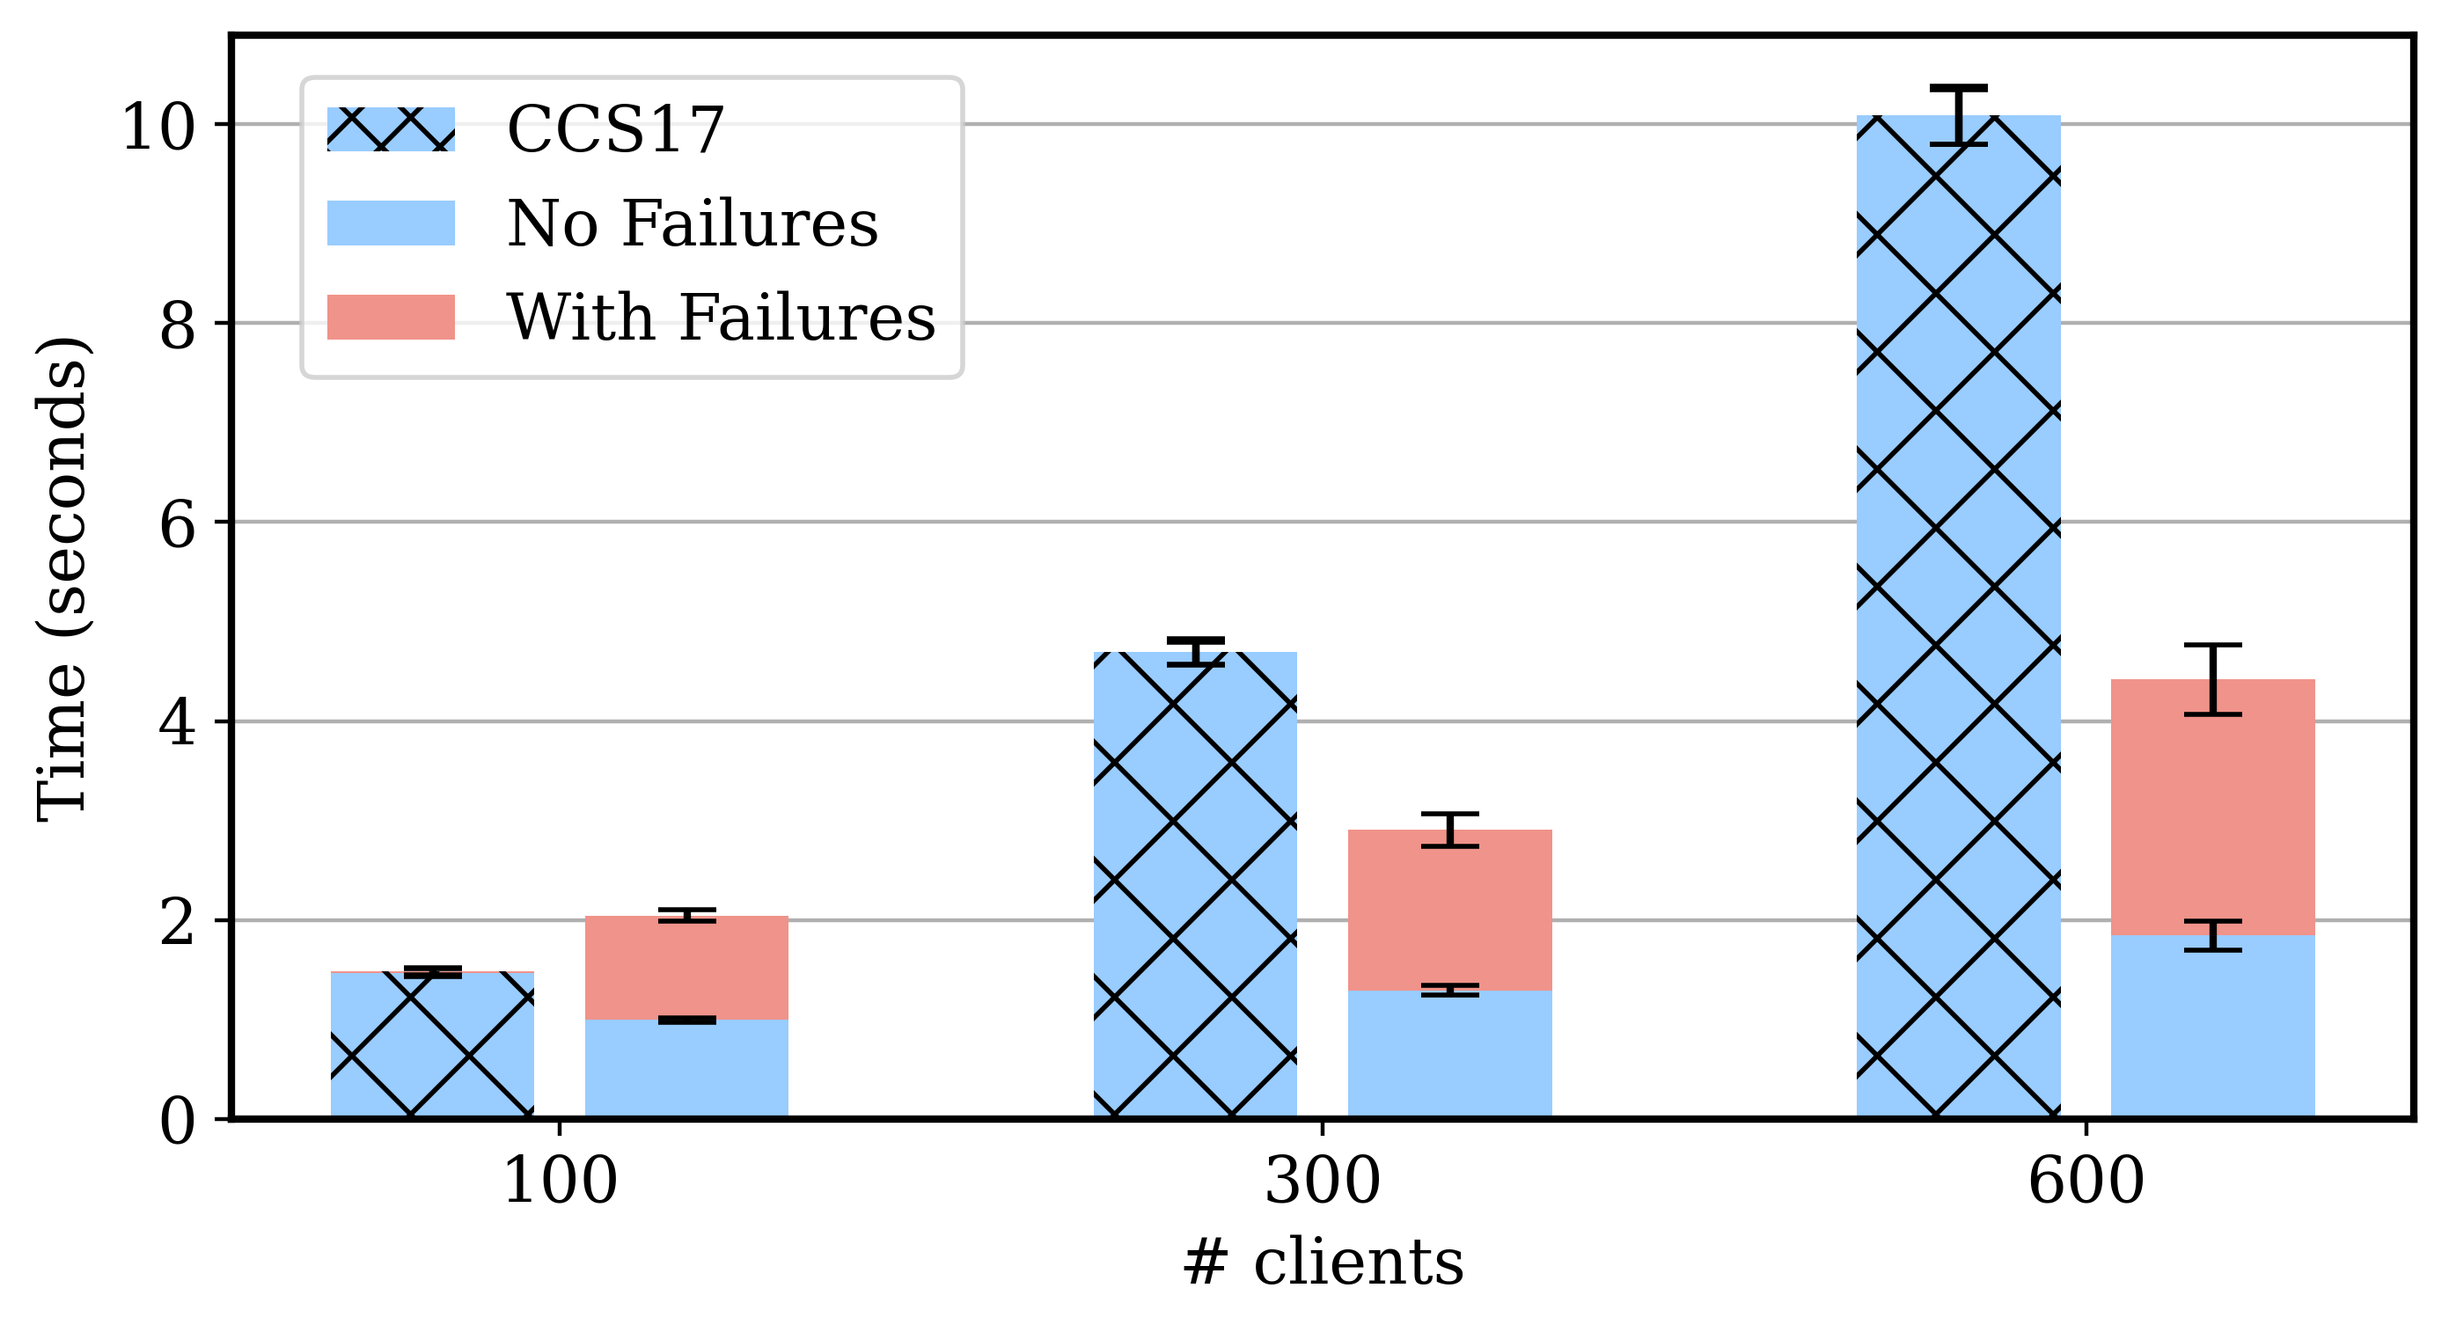
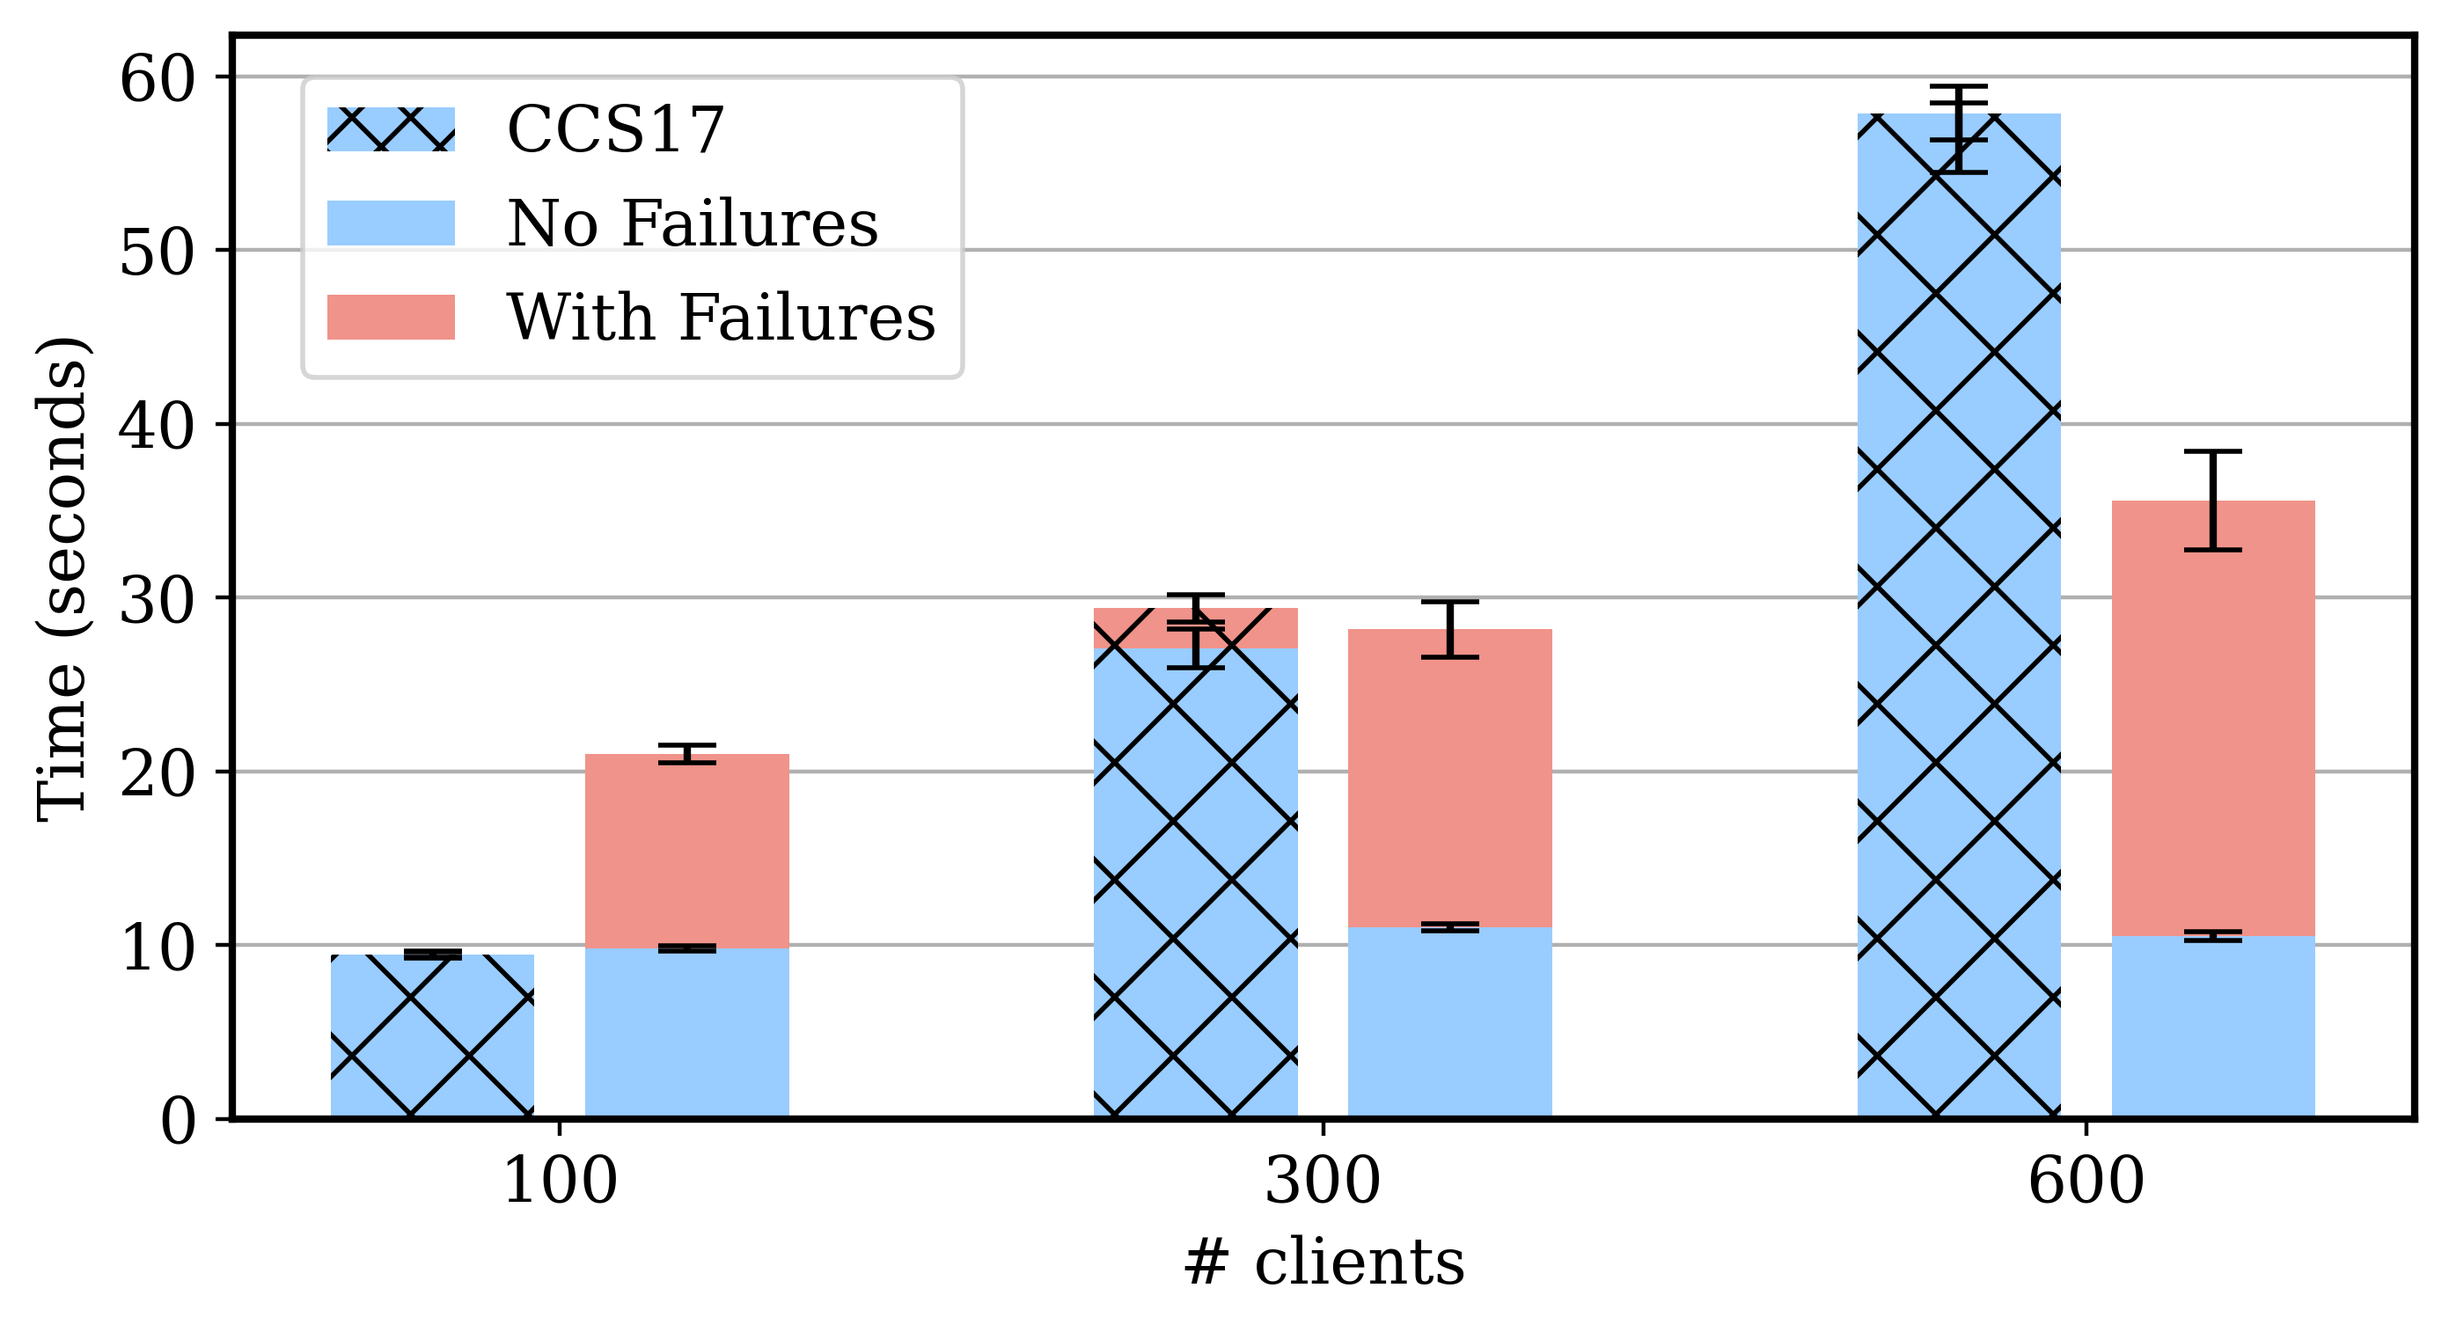
Documentation of benchmarks

diff --git a/ftsa/benchmarks/visualize_benchmarks.py b/ftsa/benchmarks/visualize_benchmarks.py
@@ -165,7 +165,7 @@ def plot_time_client(ccs, online):
     fig.set_figheight(4)
     fig.set_figwidth(8)
     # ax = axes[0]
-    ax.set_ylabel('Time (seconds)')
+    ax.set_ylabel('seconds')
     ax.set_xlabel('# clients')
     ax.yaxis.grid(True)
     ax.set_axisbelow(True)
@@ -181,6 +181,9 @@ def plot_time_client(ccs, online):
             means = np.array([ccs_mean[10000][drop][ncli], online_mean[10000][drop][ncli]])
             error = np.array([ccs_std[10000][drop][ncli], online_std[10000][drop][ncli]])
             ax.bar(x_pos, means, yerr=error, align='center', alpha=1, ecolor='black', color =clrs[j], hatch=htch,capsize=6, width=wdth)
+            # print(ncli, drop, means[0]/means[1])
+
+
         i+=1
 
 
@@ -207,7 +210,7 @@ def plot_time_client(ccs, online):
     dimsnames = ['1K', '10K', '100K']
     ncli = 600 
 
-    ax.set_ylabel('Time (seconds)')
+    ax.set_ylabel('seconds')
     ax.set_xlabel('Dimension')
     ax.yaxis.grid(True)
     ax.set_axisbelow(True)
@@ -401,7 +404,7 @@ def plot_time_server(ccs, online):
     fig.set_figheight(4)
     fig.set_figwidth(8)
     # ax.set_ylim(0,400)
-    ax.set_ylabel('Time (seconds)')
+    ax.set_ylabel('seconds')
     ax.set_xlabel('# clients')
     ax.yaxis.grid(True)
     ax.set_axisbelow(True)
@@ -417,6 +420,8 @@ def plot_time_server(ccs, online):
             means = np.array([ccs_mean[10000][drop][ncli], online_mean[10000][drop][ncli]])
             error = np.array([ccs_std[10000][drop][ncli], online_std[10000][drop][ncli]])
             ax.bar(x_pos, means, yerr=error, align='center', alpha=1, ecolor='black', color =clrs[j], hatch=htch,capsize=6, width=wdth)
+            # print(ncli, drop, means[0]/means[1])
+
             j+=1
         i+=1
 
@@ -445,7 +450,7 @@ def plot_time_server(ccs, online):
     dimsnames = ['1K', '10K', '100K']
     ncli = 600 
 
-    ax.set_ylabel('Time (seconds)')
+    ax.set_ylabel('seconds')
     ax.set_xlabel('Dimension')
     ax.yaxis.grid(True)
     ax.set_axisbelow(True)
@@ -502,34 +507,88 @@ def get_time_ms(setup, online, entity):
 
         online_mean[s.dimension][s.dropout][s.nclients] =( 1000* np.mean(online[s]['encrypt']) , 1000* np.mean(online[s]['construct']))
 
+    print(entity + " runtime measurements:")
+    print("-------------------------")
+    print("100 clients, 1K dim:")
+    print("00% failures :  Setup = ",setup_mean[1000][0.0][100])
+    print("00% failures :  Online = ",online_mean[1000][0.0][100])
+    print("10% failures :  Setup = ",setup_mean[1000][0.1][100])
+    print("10% failures :  Online = ",online_mean[1000][0.1][100])
+    print("30% failures :  Setup = ",setup_mean[1000][0.3][100])
+    print("30% failures :  Online = ",online_mean[1000][0.3][100])
+    print() 
 
-    print(setup_mean[10000][0.1][600])
-    print(100*online_mean[10000][0.1][600] + setup_mean[10000][0.1][600])
-    print(500*online_mean[10000][0.1][600] + setup_mean[10000][0.1][600])
-    print(1000*online_mean[10000][0.1][600] + setup_mean[10000][0.1][600])
+    print("300 clients, 1K dim:")
+    print("00% failures :  Setup = ",setup_mean[1000][0.0][300])
+    print("00% failures :  Online = ",online_mean[1000][0.0][300])
+    print("10% failures :  Setup = ",setup_mean[1000][0.1][300])
+    print("10% failures :  Online = ",online_mean[1000][0.1][300])
+    print("30% failures :  Setup = ",setup_mean[1000][0.3][300])
+    print("30% failures :  Online = ",online_mean[1000][0.3][300])
+    print() 
 
-    print(setup_mean[10000][0.0][100])
-    print(online_mean[10000][0.0][100])
-    print(setup_mean[10000][0.1][100])
-    print(online_mean[10000][0.1][100])
-    print(setup_mean[10000][0.3][100])
-    print(online_mean[10000][0.3][100])
+    print("600 clients, 1K dim:")
+    print("00% failures :  Setup = ",setup_mean[1000][0.0][600])
+    print("00% failures :  Online = ",online_mean[1000][0.0][600])
+    print("10% failures :  Setup = ",setup_mean[1000][0.1][600])
+    print("10% failures :  Online = ",online_mean[1000][0.1][600])
+    print("30% failures :  Setup = ",setup_mean[1000][0.3][600])
+    print("30% failures :  Online = ",online_mean[1000][0.3][600])
+    print() 
 
+    print("100 clients, 10K dim:")
+    print("00% failures :  Setup = ",setup_mean[10000][0.0][100])
+    print("00% failures :  Online = ",online_mean[10000][0.0][100])
+    print("10% failures :  Setup = ",setup_mean[10000][0.1][100])
+    print("10% failures :  Online = ",online_mean[10000][0.1][100])
+    print("30% failures :  Setup = ",setup_mean[10000][0.3][100])
+    print("30% failures :  Online = ",online_mean[10000][0.3][100])
+    print() 
 
-    print(setup_mean[10000][0.0][300])
-    print(online_mean[10000][0.0][300])
-    print(setup_mean[10000][0.1][300])
-    print(online_mean[10000][0.1][300])
-    print(setup_mean[10000][0.3][300])
-    print(online_mean[10000][0.3][300])
+    print("300 clients, 10K dim:")
+    print("00% failures :  Setup = ",setup_mean[10000][0.0][300])
+    print("00% failures :  Online = ",online_mean[10000][0.0][300])
+    print("10% failures :  Setup = ",setup_mean[10000][0.1][300])
+    print("10% failures :  Online = ",online_mean[10000][0.1][300])
+    print("30% failures :  Setup = ",setup_mean[10000][0.3][300])
+    print("30% failures :  Online = ",online_mean[10000][0.3][300])
+    print() 
 
+    print("600 clients, 10K dim:")
+    print("00% failures :  Setup = ",setup_mean[10000][0.0][600])
+    print("00% failures :  Online = ",online_mean[10000][0.0][600])
+    print("10% failures :  Setup = ",setup_mean[10000][0.1][600])
+    print("10% failures :  Online = ",online_mean[10000][0.1][600])
+    print("30% failures :  Setup = ",setup_mean[10000][0.3][600])
+    print("30% failures :  Online = ",online_mean[10000][0.3][600])
 
-    print(setup_mean[10000][0.0][600])
-    print(online_mean[10000][0.0][600])
-    print(setup_mean[10000][0.1][600])
-    print(online_mean[10000][0.1][600])
-    print(setup_mean[10000][0.3][600])
-    print(online_mean[10000][0.3][600])
+    print("100 clients, 100K dim:")
+    print("00% failures :  Setup = ",setup_mean[100000][0.0][100])
+    print("00% failures :  Online = ",online_mean[100000][0.0][100])
+    print("10% failures :  Setup = ",setup_mean[100000][0.1][100])
+    print("10% failures :  Online = ",online_mean[100000][0.1][100])
+    print("30% failures :  Setup = ",setup_mean[100000][0.3][100])
+    print("30% failures :  Online = ",online_mean[100000][0.3][100])
+    print() 
+
+    print("300 clients, 100K dim:")
+    print("00% failures :  Setup = ",setup_mean[100000][0.0][300])
+    print("00% failures :  Online = ",online_mean[100000][0.0][300])
+    print("10% failures :  Setup = ",setup_mean[100000][0.1][300])
+    print("10% failures :  Online = ",online_mean[100000][0.1][300])
+    print("30% failures :  Setup = ",setup_mean[100000][0.3][300])
+    print("30% failures :  Online = ",online_mean[100000][0.3][300])
+    print() 
+
+    print("600 clients, 100K dim:")
+    print("00% failures :  Setup = ",setup_mean[100000][0.0][600])
+    print("00% failures :  Online = ",online_mean[100000][0.0][600])
+    print("10% failures :  Setup = ",setup_mean[100000][0.1][600])
+    print("10% failures :  Online = ",online_mean[100000][0.1][600])
+    print("30% failures :  Setup = ",setup_mean[100000][0.3][600])
+    print("30% failures :  Online = ",online_mean[100000][0.3][600])
+    print() 
+    print() 
 
 
 def get_comm(setup_sent,setup_rcvd, online_sent,online_rcvd):
@@ -551,22 +610,44 @@ def get_comm(setup_sent,setup_rcvd, online_sent,online_rcvd):
         online_sent_mean[s.dimension][s.dropout][s.nclients] = (np.mean(online_sent[s]['encrypt'])/8/1024, np.mean(online_sent[s]['construct'])/8/1024)
         online_rcvd_mean[s.dimension][s.dropout][s.nclients] = (0,np.mean(online_rcvd[s]['construct'])/8/1024)
 
-    for n in [100,300,600]:
-        for d in [0.0,0.3]:
-            sS = setup_sent_mean[10000][d][n]
-            oS = online_sent_mean[10000][d][n]
-            sR = setup_rcvd_mean[10000][d][n]
-            oR = online_rcvd_mean[10000][d][n]
-            print("nclients={}, drops={}".format(n,d))
-            print("{:.2f} KB & {:.2f} KB & {:.2f} KB & {:.2f} KB".format(sS[0],sS[1],oS[0],oS[1]))
-            print("{:.2f} KB & {:.2f} KB & {:.2f} KB & {:.2f} KB".format(sR[0],sR[1],oR[0],oR[1]))
-            print("{:.2f} KB & {:.2f} KB & {:.2f} KB & {:.2f} KB".format(sS[0]+sR[0],sS[1]+sR[1],oS[0]+oR[0],oS[1]+oR[1]))
+    print("Bandwidth measurements:")
+    print("-------------------------")
+    # for n in [100,300,600]:
+    #     for d in [0.0,0.3]:
+    #         print("nclients={}, drops={}".format(n,d))
+    #         print("{:.2f} KB & {:.2f} KB & {:.2f} KB & {:.2f} KB".format(sS[0],sS[1],oS[0],oS[1]))
+    #         print("{:.2f} KB & {:.2f} KB & {:.2f} KB & {:.2f} KB".format(sR[0],sR[1],oR[0],oR[1]))
+    #         print("{:.2f} KB & {:.2f} KB & {:.2f} KB & {:.2f} KB".format(sS[0]+sR[0],sS[1]+sR[1],oS[0]+oR[0],oS[1]+oR[1]))
+    #         print()
+
+#     for d in [0.0,0.3]:
+    for dim in [1000,10000,100000]:
+        for n in [100,300,600]:
+            print("{} clients, {}K dim, 00% fail:".format(n,int(dim/1000)))
+            sS = setup_sent_mean[dim][0.0][n]
+            oS = online_sent_mean[dim][0.0][n]
+            sR = setup_rcvd_mean[dim][0.0][n]
+            oR = online_rcvd_mean[dim][0.0][n]
+            print("00% failures : Sent = {:.2f} KB & {:.2f} KB & {:.2f} KB & {:.2f} KB".format(sS[0],sS[1],oS[0],oS[1]))
+            print("00% failures : Rcvd = {:.2f} KB & {:.2f} KB & {:.2f} KB & {:.2f} KB".format(sR[0],sR[1],oR[0],oR[1]))
+            print("00% failures : Totl = {:.2f} KB & {:.2f} KB & {:.2f} KB & {:.2f} KB".format(sS[0]+sR[0],sS[1]+sR[1],oS[0]+oR[0],oS[1]+oR[1]))
+            sS = setup_sent_mean[dim][0.1][n]
+            oS = online_sent_mean[dim][0.1][n]
+            sR = setup_rcvd_mean[dim][0.1][n]
+            oR = online_rcvd_mean[dim][0.1][n]
+            print("10% failures : Sent = {:.2f} KB & {:.2f} KB & {:.2f} KB & {:.2f} KB".format(sS[0],sS[1],oS[0],oS[1]))
+            print("10% failures : Rcvd = {:.2f} KB & {:.2f} KB & {:.2f} KB & {:.2f} KB".format(sR[0],sR[1],oR[0],oR[1]))
+            print("10% failures : Totl = {:.2f} KB & {:.2f} KB & {:.2f} KB & {:.2f} KB".format(sS[0]+sR[0],sS[1]+sR[1],oS[0]+oR[0],oS[1]+oR[1]))
             print()
 
-
-
-
-
+            sS = setup_sent_mean[dim][0.0][n]
+            oS = online_sent_mean[dim][0.0][n]
+            sR = setup_rcvd_mean[dim][0.0][n]
+            oR = online_rcvd_mean[dim][0.0][n]
+            print("30% failures : Sent = {:.2f} KB & {:.2f} KB & {:.2f} KB & {:.2f} KB".format(sS[0],sS[1],oS[0],oS[1]))
+            print("30% failures : Rcvd = {:.2f} KB & {:.2f} KB & {:.2f} KB & {:.2f} KB".format(sR[0],sR[1],oR[0],oR[1]))
+            print("30% failures : Totl = {:.2f} KB & {:.2f} KB & {:.2f} KB & {:.2f} KB".format(sS[0]+sR[0],sS[1]+sR[1],oS[0]+oR[0],oS[1]+oR[1]))
+            print()
 
 
 
@@ -585,7 +666,7 @@ if __name__ == "__main__":
     plot_time_server(ccs_server_time, server_online_time)
 
 
-    # get_time_ms(server_setup_time, server_online_time, "server")
-    # get_time_ms(client_setup_time, client_online_time, "client")
-    # get_comm(sent_setup_comm, rcvd_setup_comm, sent_online_comm,  rcvd_online_comm)
+    get_time_ms(server_setup_time, server_online_time, "server")
+    get_time_ms(client_setup_time, client_online_time, "client")
+    get_comm(sent_setup_comm, rcvd_setup_comm, sent_online_comm,  rcvd_online_comm)
 

diff --git a/ftsa/benchmarks/benchmark_ccs17.py b/ftsa/benchmarks/benchmark_ccs17.py
@@ -190,7 +190,7 @@ if __name__ == "__main__":
             if len(sys.argv) > 4:
                 raise()
     except:
-        print("Usage: benchmarks_ccs17.py <time_benchmarks.csv> <comm_benchmarks.csv> [comma seprated run numbers (no spaces)]")
+        print("Usage: benchmarks_ccs17.py <time_benchmarks.csv> <comm_benchmarks.csv> [comma separated run numbers (no spaces)]")
         print("\t use [-p] to only see the existing runs")
         sys.exit(-1)
 

diff --git a/ftsa/benchmarks/benchmark_ours.py b/ftsa/benchmarks/benchmark_ours.py
@@ -208,7 +208,7 @@ if __name__ == "__main__":
             if len(sys.argv) > 4:
                 raise()
     except:
-        print("Usage: benchmarks_ours.py <time_benchmarks.csv> <comm_benchmarks.csv> [comma seprated run numbers (no spaces)]")
+        print("Usage: benchmarks_ours.py <time_benchmarks.csv> <comm_benchmarks.csv> [comma separated run numbers (no spaces)]")
         print("\t use [-p] to only see the existing runs")
         sys.exit(-1)
 

diff --git a/ftsa/benchmarks/README.md b/ftsa/benchmarks/README.md
@@ -1,0 +1,23 @@
+# Benchmarks
+Here you can find the python script that will run an end-to-end execution of the protocols and measure the time cost and the communication cost. The elapsed time of execution of each protocol phase is measured using `time` python library. The communication cost is measured by counting the raw size of the data that should be transmitted on the network (We do not perform real network transmission, instead we pass the data between the parties by running the clients and the aggregator in the same process). 
+
+### Benchmarking SecAgg
+To run the benchmarks of SecAgg, run `benchmarks_css17.py` (make sure to run them from `.venv`):
+```
+Usage: benchmarks_ccs17.py <time_benchmarks.csv> <comm_benchmarks.csv> [comma separated run numbers (no spaces)]
+	 use [-p] to only see the existing runs
+```
+
+### Benchmarking Our Protocol
+To run the benchmarks of our protocol, run `benchmarks_ours.py` (make sure to run them from `.venv`):
+```
+Usage: benchmarks_ours.py <time_benchmarks.csv> <comm_benchmarks.csv> [comma separated run numbers (no spaces)]
+	 use [-p] to only see the existing runs
+```
+
+### Important Note
+Each benchmark involves running all the clients and the aggregator in one process. This means that your processor will execute the code of each client sequentially and then the aggregator code. It does that for each protocol round. Hence, when you execute the benchmarks on your machine you should expect it to take long time (running all the benchmarks takes more than one day) 
+
+### Benchmarks results 
+We give the raw data of the benchmark results in [results](results). The python script `visualize_benchmarks.py` helps visualize the results. The script plots the graph in [plots](plots) and prints the mean of the results in the terminal.
+These results are presented in section 9 of the manuscript.
